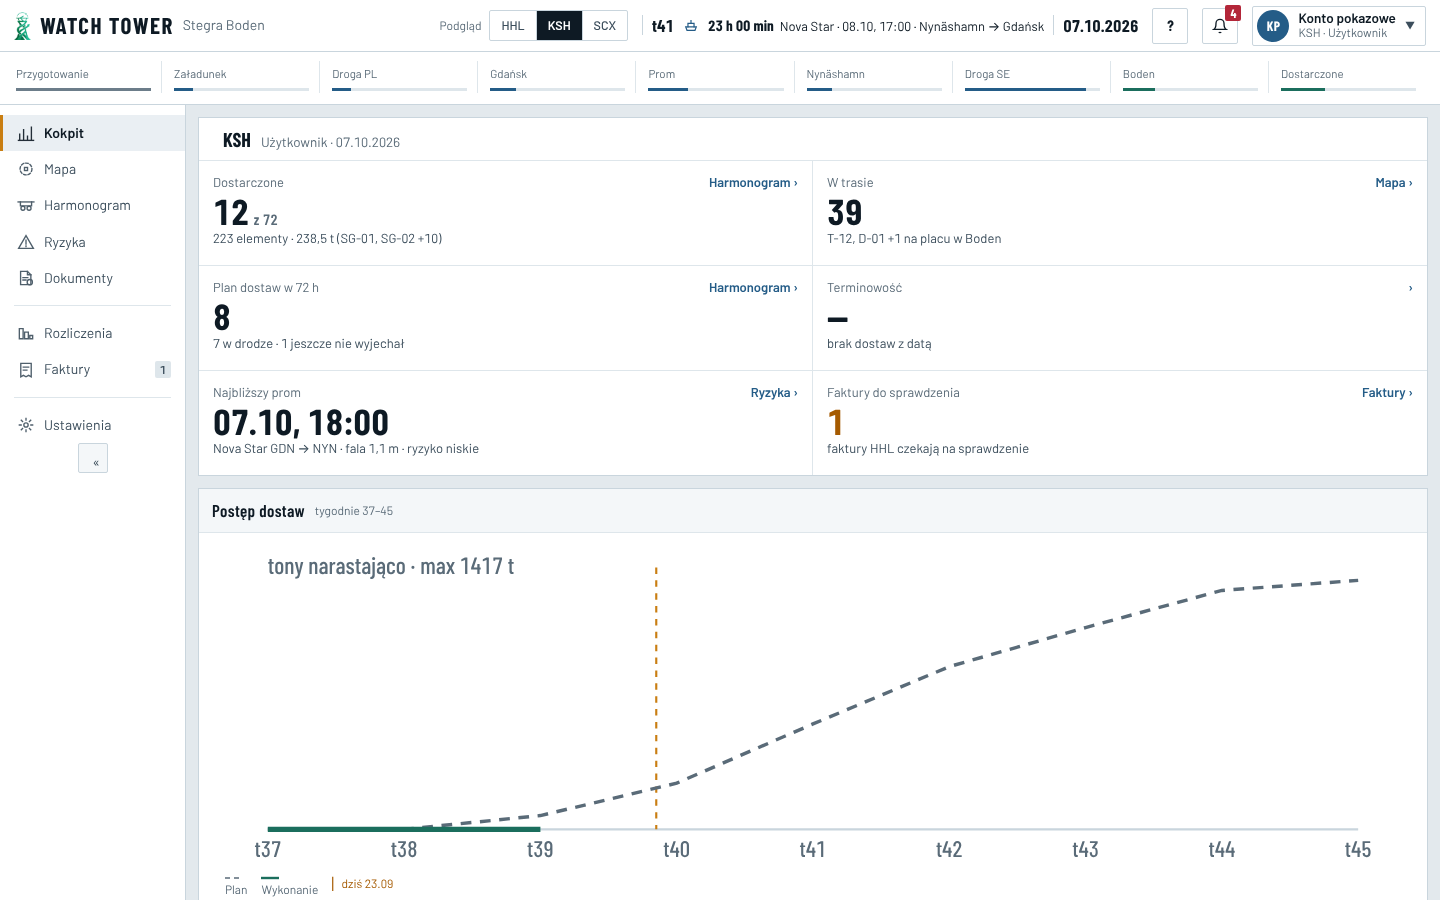
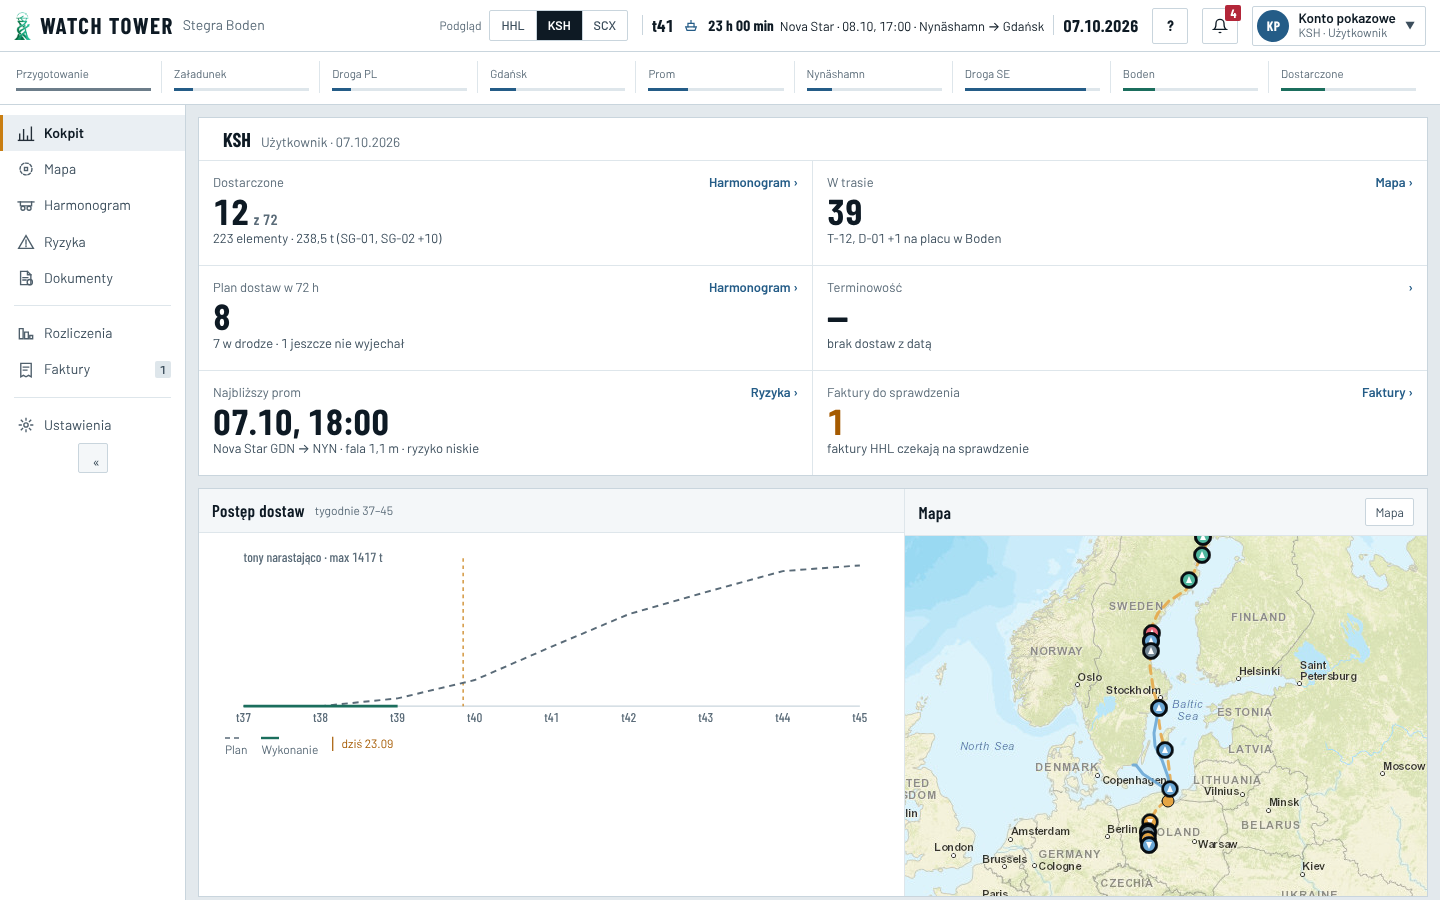
fix(wyglad/P3-b): drugie sprawdzenie — faktura sporna w liczbie „Faktury”, KSH postęp i mapa obok siebie
- „Faktury” w menu: czeka na mnie faktura do mnie „do weryfikacji” albo moja „sporna” (canReplyDispute).
- KSH (bez listy) na szerokim ekranie: postęp i mapa w dwóch kolumnach, wykres się nie rozciąga.
- „tydz.” przy „Do zafakturowania” z daty rozładunku (bez daty — bieżący); stopka czasu wykrycia „wczytuję…”.

Claude-Session: https://claude.ai/code/session_01S36qMbEWpRWj55jt4pBR6E

diff --git a/src/views/DashboardView.tsx b/src/views/DashboardView.tsx
@@ -106,10 +106,10 @@ export function DashboardView() {
     </span>
   ) : null;
   /* Stopka HHL (E9): „Czas wykrycia odchylenia: **za mało danych** (2 z 5 zdarzeń w 30 dniach)”; mediana od 5 zdarzeń */
-  const detect: [string, string] | null = shows('detectTimeKpi')
+  const detect: [string, string] = shows('detectTimeKpi')
     ? [tp(locale, 'p3b_detect_ok', { m: '8' }), tp(locale, 'p3b_detect_ok_n', { n: 12 })]
     : detectLag === null
-      ? null
+      ? [t(locale, 'p3b_detect_loading'), '']
       : detectLag === 'error'
         ? [t(locale, 'p3b_detect_err'), '']
         : detectLag.samples >= 5 && detectLag.medianMin != null
@@ -117,7 +117,7 @@ export function DashboardView() {
           : detectLag.samples > 0
             ? [t(locale, 'p3b_detect_few'), tp(locale, 'p3b_detect_few_n', { n: String(detectLag.samples) })]
             : [t(locale, 'p3b_detect_none'), t(locale, 'p3b_detect_none_n')];
-  const footer = role === 'HHL' && canSeeMargin(role) && detect ? (
+  const footer = role === 'HHL' && canSeeMargin(role) ? (
     <span data-detect-lag>
       {t(locale, 'p3b_detect_label')} <b>{detect[0]}</b> {detect[1]}
     </span>
@@ -175,30 +175,35 @@ export function DashboardView() {
           )}
         </div>
         )}
-        <div style={{ minWidth: 0 }}>
-          <header className="panel-hd">
-            <h2>{t(locale, 'progress')}</h2>
-            <span className="sub">{PROD_BUILD ? (prodWeeks ? tp(locale, 'i2_progress_weeks', { r: prodWeeks }) : '') : t(locale, 'progress_weeks')}</span>
-          </header>
-          <div className="panel-bd">
-            <DeliveryProgress loads={loads} locale={locale} />
+        {/* KSH (ck-solo) na szerokim ekranie: postęp i mapa obok siebie, jak u innych firm (bez rozciągania wykresu) */}
+        <div className="ck-side" style={{ minWidth: 0 }}>
+          <div className="ck-prog" style={{ minWidth: 0 }}>
+            <header className="panel-hd">
+              <h2>{t(locale, 'progress')}</h2>
+              <span className="sub">{PROD_BUILD ? (prodWeeks ? tp(locale, 'i2_progress_weeks', { r: prodWeeks }) : '') : t(locale, 'progress_weeks')}</span>
+            </header>
+            <div className="panel-bd">
+              <DeliveryProgress loads={loads} locale={locale} />
+            </div>
           </div>
-          <header className="panel-hd" style={{ borderTop: '1px solid var(--rule-2)' }}>
-            <h2>{t(locale, 'nav_map')}</h2>
-            <div className="spacer" />
-            <button
-              type="button"
-              className="chipbtn"
-              onClick={() => navigateTo({ view: 'map' })}
+          <div className="ck-map" style={{ minWidth: 0 }}>
+            <header className="panel-hd">
+              <h2>{t(locale, 'nav_map')}</h2>
+              <div className="spacer" />
+              <button
+                type="button"
+                className="chipbtn"
+                onClick={() => navigateTo({ view: 'map' })}
+              >
+                {t(locale, 'nav_map')}
+              </button>
+            </header>
+            <div
+              className="grid2-map-body minimap"
+              style={{ overflow: 'hidden', background: 'var(--surface-3)', position: 'relative' }}
             >
-              {t(locale, 'nav_map')}
-            </button>
-          </header>
-          <div
-            className="grid2-map-body minimap"
-            style={{ overflow: 'hidden', background: 'var(--surface-3)', position: 'relative' }}
-          >
-            <CorridorMap loads={loads} embedded />
+              <CorridorMap loads={loads} embedded />
+            </div>
           </div>
         </div>
       </div>

diff --git a/src/lib/cockpitE9.ts b/src/lib/cockpitE9.ts
@@ -132,20 +132,20 @@ export function loadsBilledBy(bills: readonly Pick<Bill, 'issuer' | 'lines'>[], 
 
 /**
  * Liczba przy „Faktury” w menu (E9): faktury czekające na moje działanie plus transporty gotowe do mojej faktury.
- * KSH: faktury HHL do sprawdzenia. HHL: faktury SCX do sprawdzenia + rozładowane z podpisanym CMR bez faktury HHL dla KSH.
- * SCX: sporne faktury SCX + rozładowane z podpisanym CMR bez faktury SCX. Status E25 „Gotowe do fakturowania” — P4.
+ * Czeka na mnie: faktura do mnie „do weryfikacji” (sprawdzam ją) albo moja faktura „sporna” (odpowiada tylko wystawca,
+ * canReplyDispute). Gotowe do mojej faktury (HHL, SCX): rozładowane z podpisanym CMR, jeszcze bez mojej faktury.
+ * Status E25 „Gotowe do fakturowania” i ewentualnie „zgodna” czekająca na akceptację — P4 (wykonawca).
  */
 export function invoiceTodoCount(
   role: RoleId,
   input: { loads: readonly Load[]; documents: readonly Document[]; bills: readonly Bill[] },
 ): number {
   const { loads, documents, bills } = input;
-  if (role === 'KSH') return bills.filter((b) => b.recipient === 'KSH' && b.verification === 'DO_WERYFIKACJI').length;
+  const waiting = bills.filter((b) =>
+    (b.recipient === role && b.verification === 'DO_WERYFIKACJI') || (b.issuer === role && b.verification === 'SPORNA')).length;
+  if (role === 'KSH') return waiting;
   const mine = loadsBilledBy(bills, role);
   const ready = loads.filter((l) => delivered(l) && !mine.has(l.id) && hasDoc(documents, l.id, 'CMR')).length;
-  const waiting = role === 'HHL'
-    ? bills.filter((b) => b.recipient === 'HHL' && b.verification === 'DO_WERYFIKACJI').length
-    : bills.filter((b) => b.issuer === 'SCX' && b.verification === 'SPORNA').length;
   return waiting + ready;
 }
 
@@ -295,7 +295,7 @@ export function buildCockpit(input: CockpitInput): CockpitTile[] {
 
   if (role === 'SCX') {
     /* „tydz. 41” = tydzień dostawy transportów czekających na fakturę (E9: „w tygodniu dostawy”); bez nich — bieżący */
-    const weekOf = (l: Load) => isoWeekNumber(`${dayKey(l.unloadedAt) ?? dayKey(l.plannedDeliverDate) ?? f.today}T12:00:00Z`);
+    const weekOf = (l: Load) => isoWeekNumber(`${dayKey(l.unloadedAt) ?? f.today}T12:00:00Z`);
     const weeks = [...new Set(f.toInvoice.map(weekOf))].sort((a, b) => a - b);
     const w = weeks.length === 0 ? String(isoWeekNumber(input.nowIso)) : weeks.length === 1 ? String(weeks[0]) : `${weeks[0]}–${weeks[weeks.length - 1]}`;
     return [

diff --git a/tests/p3b-cockpit-e9.test.ts b/tests/p3b-cockpit-e9.test.ts
@@ -73,6 +73,10 @@ describe('E9 — „Do zrobienia” i liczby w menu', () => {
     // SCX: 1 sporna; SG-02 jest już na fakturze SCX
     expect(invoiceTodoCount('SCX', { loads: LOADS, documents: DOCS, bills })).toBe(1);
     expect(invoiceTodoCount('SCX', { loads: LOADS, documents: [], bills: [] })).toBe(0);
+    // faktura HHL zakwestionowana przez KSH: odpowiada HHL (wystawca), KSH już nie ma nic do zrobienia
+    const disputed = [bill({ issuer: 'HHL', recipient: 'KSH', verification: 'SPORNA' })];
+    expect(invoiceTodoCount('HHL', { loads: [], documents: [], bills: disputed })).toBe(1);
+    expect(invoiceTodoCount('KSH', { loads: [], documents: [], bills: disputed })).toBe(0);
   });
   it('loadsBilledBy: transporty z faktur danego wystawcy', () => {
     const bills = [bill({ issuer: 'SCX', lines: [{ loadId: 'A' }] as Bill['lines'] }), bill({ issuer: 'HHL', lines: [{ loadId: 'B' }] as Bill['lines'] })];

diff --git a/src/index.css b/src/index.css
@@ -1370,3 +1370,9 @@ img,video{max-width:100%;height:auto}
 }
 /* KSH bez listy „Do zrobienia” (E9): postęp i mapa na całą szerokość */
 .panel.grid2.ck-solo{grid-template-columns:minmax(0,1fr)}
+.ck-map>.panel-hd{border-top:1px solid var(--rule-2)}
+@media (min-width:1101px){
+  .panel.grid2.ck-solo .ck-side{display:grid;grid-template-columns:minmax(0,1.35fr) minmax(0,1fr)}
+  .panel.grid2.ck-solo .ck-map{border-left:1px solid var(--rule-2)}
+  .panel.grid2.ck-solo .ck-map>.panel-hd{border-top:0}
+}

diff --git a/src/i18n/messages.ts b/src/i18n/messages.ts
@@ -166,6 +166,7 @@ const pl: Dict = {
   p3b_detect_none: 'brak danych',
   p3b_detect_none_n: '(0 z 5 zdarzeń w 30 dniach)',
   p3b_detect_err: 'nie udało się odczytać',
+  p3b_detect_loading: 'wczytuję…',
   p3b_urgent: 'Najpilniejsze',
   p3b_urgent_sub: 'z „Do zrobienia”',
   nav_fin: 'Finanse',

diff --git a/docs/handover/odbior/P3/POROWNANIE.md b/docs/handover/odbior/P3/POROWNANIE.md
@@ -136,7 +136,7 @@ Kafelki liczą według statusu transportu, nie etapu paska: „Na placu” (w ba
 
 - Brama E8 (`tests/e8-phone-gate.spec.ts`): 3 konta × 360 / 390 / 430 px — 0 poza ekranem, 0 uciętych, 0 celów < 44 px, 0 tekstu < 12 px, liczby kafelków w jednej linii.
 - Nowe testy „wyglad/P3-b Kokpit” w tym samym pliku: komputer 1440 (3 konta: nagłówek, kolejność 6 kafelków, 2 kolumny równej szerokości, „Strona ›”, stopka tylko HHL, „Do zrobienia” = liczba w menu, KSH bez liczby) i telefon 360 / 390 / 430 (nagłówek „Kokpit”, 2 × 3 równej szerokości, bez „Strona ›”, liczby w jednej linii i w kafelku, ≤ 3 najpilniejsze, bez stopki). Wstrzyknięta usterka (liczba 44 px z łamaniem, kolumny 1 : 2) — test łapie.
-- Testy jednostkowe `tests/p3b-cockpit-e9.test.ts` (11): kafelki trzech firm na statusach jak z produkcji („Na placu”, „Rozładowany”), opisy i liczba mnoga, puste stany, „Do zrobienia” (Administrator, Operacje, SCX, KSH), rodzaj konta w Podglądzie, liczba „Faktury” z tabeli Faktur, porywy i godzina wjazdu (gdy dane je podadzą).
+- Testy jednostkowe `tests/p3b-cockpit-e9.test.ts` (11, w tym faktura sporna): kafelki trzech firm na statusach jak z produkcji („Na placu”, „Rozładowany”), opisy i liczba mnoga, puste stany, „Do zrobienia” (Administrator, Operacje, SCX, KSH), rodzaj konta w Podglądzie, liczba „Faktury” z tabeli Faktur, porywy i godzina wjazdu (gdy dane je podadzą).
 - axe (WCAG 2.1 AA) na Kokpicie i menu, 3 konta × jasny / ciemny × 1440 / 390: 0 naruszeń przed zmianą liczby na dolnym pasku; po niej w motywie ciemnym kontrast liczby jak w dzwonku (E10).
 - Strona bez przewijania w bok przy 1440, 1024, 768, 430, 390 i 360 px.
 - Testy przepisane (E9, komentarz w teście): `tests/i2l-detect-lag.test.ts` i `tests/i2-facade.local.spec.ts` (stopka, próg 5 zdarzeń, B6), `tests/l8-cockpit-tiles.test.ts` („Do zrobienia” = menu, KSH bez kafelka decyzji), `tests/etap4-ui.spec.ts` G4 (kwota tylko na marży HHL), `tests/e8-phone-gate.spec.ts` „V1 i V2” (bez liczby przy Harmonogramie także na komputerze).
@@ -148,7 +148,17 @@ Kafelki liczą według statusu transportu, nie etapu paska: „Na placu” (w ba
   - KSH: bez listy pod kafelkami (E9: KSH bez listy „Do zrobienia”);
   - produkcja, prom: zamiast „brak źródła danych” (pomiar jest na stronie Ryzyka) — „prognoza morza na stronie Ryzyka”;
   - polskie formy („1 jeszcze nie wyjechał”, „2 czekają”), puste stany, tydzień dostawy przy „Do zafakturowania”, stopka czasu wykrycia nie udaje zera przy wczytywaniu i błędzie, najbliższy prom liczony co minutę.
-- Migawki wzorców (`tests/__screenshots__/`) odświeżone w `visual.yml` (`update=true`) — wpis w `docs/handover/G4_WZORZEC.md`.
+- Drugie sprawdzenie tego samego agenta (na `b3f2713`): poprawki potwierdzone (symulacja na mapowaniu statusów z produkcji daje liczby jak na obrazie: HHL „Dostarczone 1 · SG-01 czeka na podpisany CMR”, KSH „Terminowość 0 z 1”, SCX „Do zafakturowania 0 · 1 czeka… · tydz. 41”), 0 regresji (Playwright 43/43). Poprawione jeszcze:
+  - „Faktury” w menu: czeka na mnie także moja faktura sporna (odpowiada wystawca — `canReplyDispute`), np. faktura HHL zakwestionowana przez KSH;
+  - KSH na szerokim ekranie: postęp i mapa obok siebie (bez rozciągania wykresu na całą szerokość);
+  - „tydz.” przy „Do zafakturowania” z daty rozładunku, bez daty — bieżący tydzień (nie plan z przyszłości);
+  - stopka czasu wykrycia od razu na miejscu („wczytuję…”), bez skoku układu.
+- Drugie sprawdzenie tego samego agenta (na `b3f2713`): poprawki potwierdzone (symulacja na mapowaniu statusów z produkcji daje liczby jak na obrazie: HHL „Dostarczone 1 · SG-01 czeka na podpisany CMR”, KSH „Terminowość 0 z 1”, SCX „Do zafakturowania 0 · 1 czeka… · tydz. 41”), 0 regresji (Playwright 43/43). Poprawione jeszcze:
+  - „Faktury” w menu: czeka na mnie także moja faktura sporna (odpowiada wystawca — `canReplyDispute`), np. faktura HHL zakwestionowana przez KSH;
+  - KSH na szerokim ekranie: postęp i mapa obok siebie (bez rozciągania wykresu na całą szerokość);
+  - „tydz.” przy „Do zafakturowania” z daty rozładunku, bez daty — bieżący tydzień (nie plan z przyszłości);
+  - stopka czasu wykrycia od razu na miejscu („wczytuję…”), bez skoku układu.
+- **Czeka:** migawki wzorców (`tests/__screenshots__/`) do odświeżenia w `visual.yml` (`update=true`) i wpis w `docs/handover/G4_WZORZEC.md` — GitHub Actions zatrzymane 14.10 od ok. 00:45 przez rozliczenia konta (decyzja właściciela). Do tego czasu check `visual` w PR jest czerwony z powodu migawek Kokpitu i menu.
 
 ### Pliki
 
